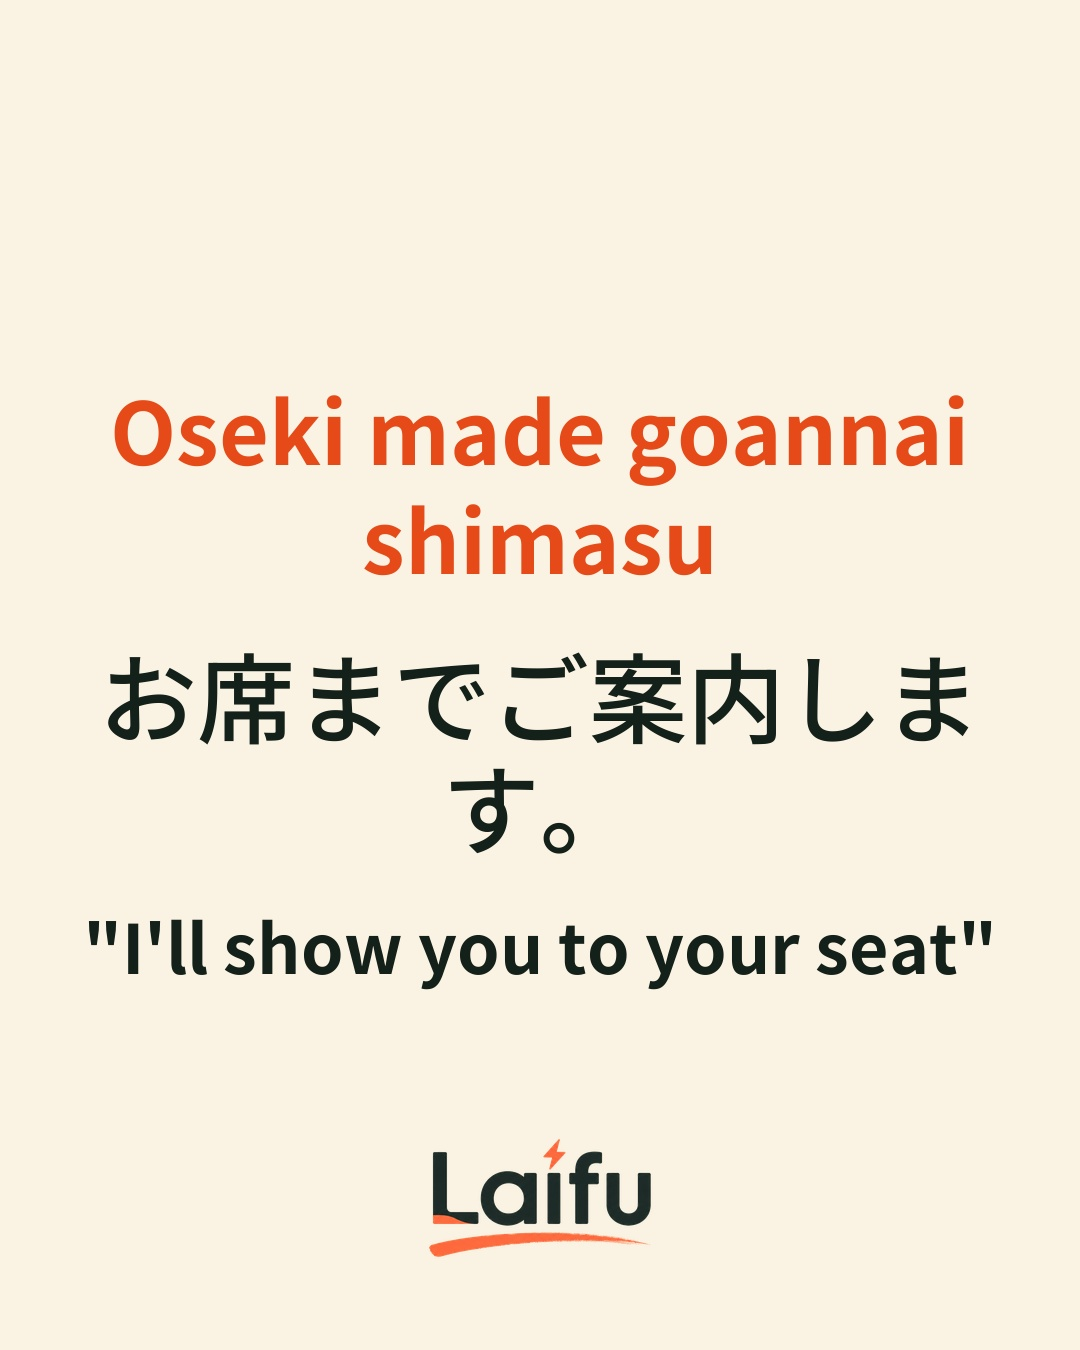
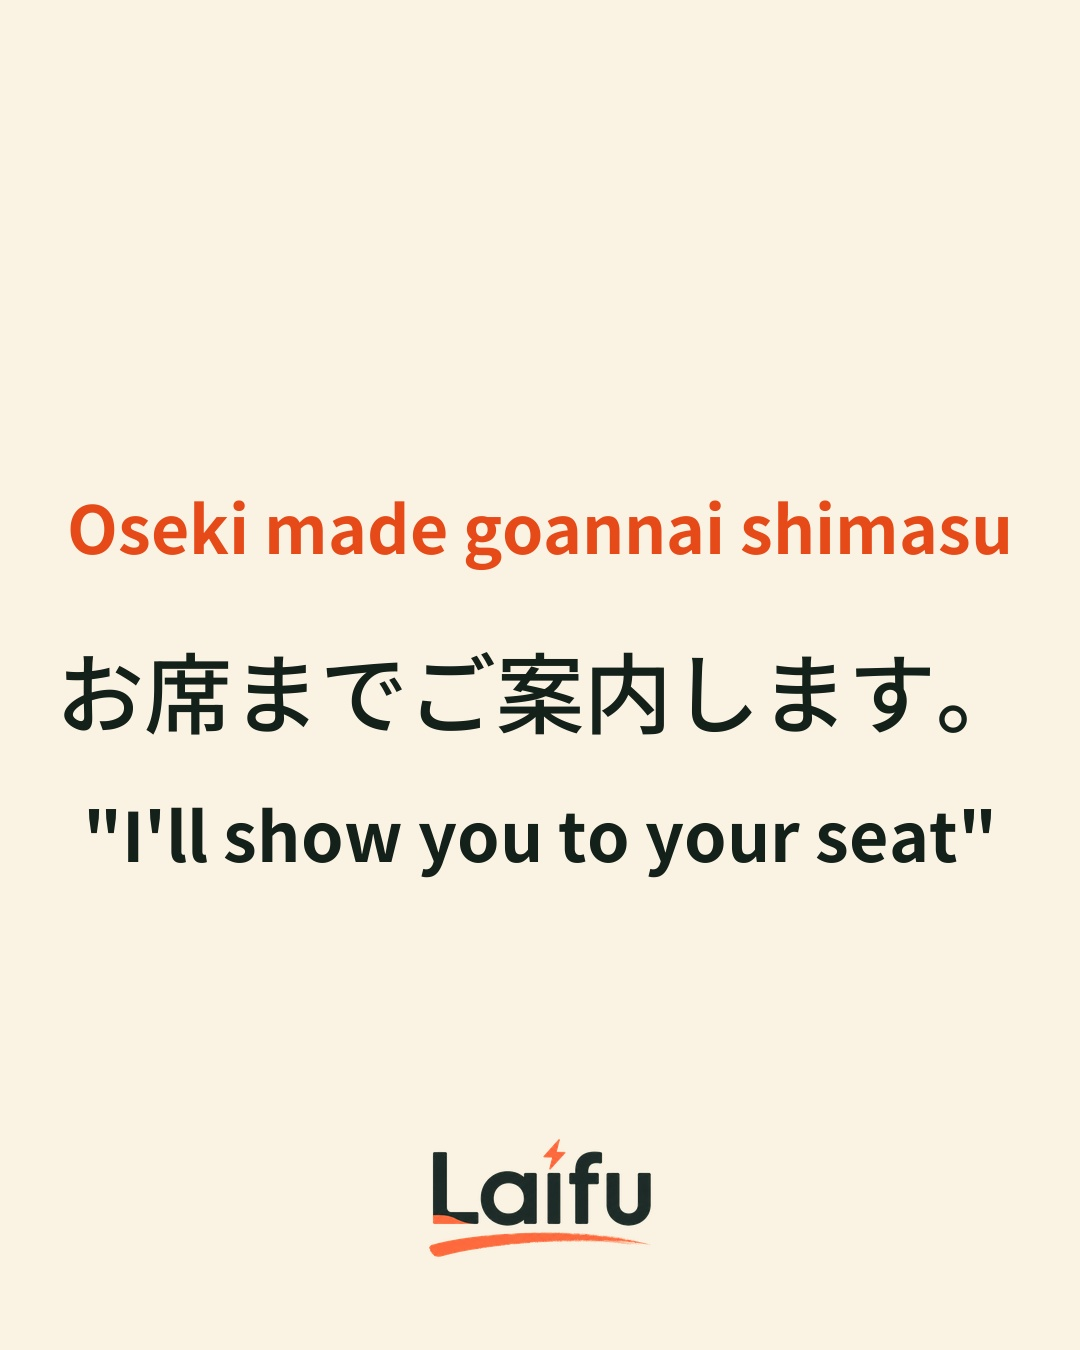
Fix carousel text overflow and swap two unshippable queue posts
The queue through 2026-11-30 was filled in the previous two commits. This
corrects three defects in it.

Text was being drawn into the logo. build_multi_phrase ran its body to
y=1178 while the logo footer starts at y=1136, so the last phrase on a
slide landed on top of the wordmark. The already-queued drugstore
"EVERYDAY" slide had it. Line heights were measured with the ink bbox
while draw.text places the ascender origin, which under-reported each
block by about one bearing per line and hid the overrun.

Lines now shrink before they wrap, so no line strands a single trailing
character ("...くださ / い", "...ます / か？"). 24 posts had roughly 30 of
these; they are gone. When a long phrase forces the Japanese down, the
English gloss is capped below it, so the translation never renders larger
than the thing being taught.

Two queue posts could not ship as scheduled:

  taxfree -> sushi. It carried 一日5万円まで免税です, but the consumables
  cap is 500,000 yen, not 50,000. Japan also moves to airport refunds on
  2026-11-01, which retires the sealed-packaging and in-store exemption
  lines. The underlying phrase rows need their own pass.

  guilty-pleasures -> cafe. The yarisugi category is not in the live
  database; migrations 0080-0081 were never applied, so the post
  advertises content the app does not have.

November shifts one day to even dates so the two-day cadence holds
across the month boundary. Order and ratio are unchanged: 22 posts from
[…]

Changed region(s): [[0.0611, 0.4667, 0.9167, 0.6533], [0.0611, 0.28, 0.9472, 0.4356], [0.0611, 0.6844, 0.9167, 0.7467]]

diff --git a/posts/texture/caption.md b/posts/texture/caption.md
@@ -1,11 +1,42 @@
-"Oishii" is the beginner move 👉
+# Caption. texture (Onomatopoeia / 食感)
 
-Japanese has a whole vocabulary for how food FEELS in your mouth. サクサク for tempura straight out of the oil, モチモチ for fresh mochi, とろとろ for melted cheese. 12 of them, and using the right one is what makes you sound like you actually eat here.
+Post: `posts/texture/` (6 slides, beige cover)
+Source: live DB O-series (migration 0074), 12 of the 20 texture phrases.
 
-We make Laifu, an app for daily (laifu) life. Every phrase has romaji, audio, and a chat example showing you when to use it.
+---
 
-📲 Download Laifu free on the App Store. Link in our bio.
+## Caption (paste this)
 
-Japanese for daily (laifu) life.
+"Oishii" is the beginner move. Everyone says it, nobody remembers it.
 
-#日本語 #learnjapanese #japanesephrases #studyjapanese #nihongo #japanlife #japaneselanguage #onomatopoeia #擬音語 #japanesefood #foodinjapan #japanesevocabulary #japantravel
+Japanese has a whole vocabulary for how food FEELS in your mouth, and people
+here use it constantly. Crispy, chewy, jiggly, melty. There's a word for each
+one, and using the right one is what makes you sound like you actually eat here.
+
+Here are 12 of them 👉
+
+サクサク for tempura straight out of the oil. モチモチ for fresh mochi. とろとろ
+for melted cheese. Say one of these at dinner and watch the table react.
+
+Save this for your next meal in Japan.
+
+Laifu is Japanese for daily (laifu) life. 1,290+ everyday phrases, each one with
+audio and a real conversation showing you when to use it.
+
+📲 Download Laifu free. Link in our bio.
+
+#日本語 #learnjapanese #japanesephrases #japanlife #nihongo #onomatopoeia
+#擬音語 #japanesefood #foodinjapan #japanesevocabulary #studyjapanese
+#japantravel #jlpt #日本語学習
+
+---
+
+## Notes
+
+- Team voice ("we / Laifu"), tagline used once, no "native audio" claim.
+- CTA = App Store download from bio (the Comment-LAIFU mechanic is retired).
+- Phrase count 1,290+ verified against the live DB 2026-08-04 (1,298 rows).
+- Cover reads "Describe the texture", not taste: all 12 words are 食感 (mouthfeel),
+  no flavor words in the set.
+- しっとり (Shittori) was cut from the SOFT & CHEWY slide: the romaji reads badly
+  in English. Replaced with ホクホク. It stays in the app, just not on a carousel.

diff --git a/posts/onsen/caption.md b/posts/onsen/caption.md
@@ -1,11 +1,13 @@
-First onsen? Here's what to say, and what the sign says 👉
+First onsen? Here's the whole run, front desk to hair dryer 👉
 
-Tattoos, lockers, かけ湯 before you get in, and the cold bath question everyone thinks but nobody asks. 12 phrases for your first 温泉 (onsen).
+タトゥーは大丈夫ですか (tatuu wa daijoubu desu ka), 入る前にかけ湯をしてください (hairu mae ni kakeyu wo shite kudasai), ちょうどいい温度ですね (choudo ii ondo desu ne).
 
-We make Laifu, an app for daily (laifu) life. Every phrase carries romaji, audio, and a short chat that shows where it fits.
+The rules feel intimidating from outside and take about a minute to learn. Rinse before you get in, tie long hair up, no photos. That's most of it.
 
-📲 Download Laifu free on the App Store. Link in our bio.
+We make Laifu, an app for daily (laifu) life. Knowing the words is only half of it, so every phrase comes with romaji, audio, and a real conversation.
+
+📲 Laifu is free on the App Store. Link in our bio.
 
 Japanese for daily (laifu) life.
 
-#日本語 #learnjapanese #japanesephrases #studyjapanese #nihongo #japanlife #japaneselanguage #onsen #温泉 #japantravel #japantrip #lifeinjapan #japanesebath
+#日本語 #learnjapanese #japanesephrases #studyjapanese #nihongo #japanlife #japaneselanguage #onsen #温泉 #japantravel #japanculture

diff --git a/posts/trouble/caption.md b/posts/trouble/caption.md
@@ -1,11 +1,13 @@
-Six phrases we hope you never need 👉
+Six phrases you hope you never need 👉
 
-盗まれました, 交番はどこですか, 被害届を出したいです. Japan is safe, and that is exactly why nobody learns these until the day they need them.
+盗まれました (nusumaremashita), 交番はどこですか (kouban wa doko desu ka), 被害届を出したいです (higaitodoke wo dashitai desu).
 
-We make Laifu, an app for daily (laifu) life. Every phrase carries romaji, audio, and a chat example.
+交番 (kouban) is the little police box on street corners, and this is exactly what it's for. Cards get frozen first, then you file the report, and 被害届 is the word that starts it. Worth reading once now instead of at the worst moment.
 
-📲 Download Laifu free on the App Store. Link in our bio.
+Pulled from Laifu, our app for daily (laifu) life ⚡. Phrases come with romaji, clear audio, and a short conversation, so the timing sticks too.
+
+📲 Laifu is free on the App Store. Link in our bio.
 
 Japanese for daily (laifu) life.
 
-#日本語 #learnjapanese #japanesephrases #studyjapanese #nihongo #japanlife #japaneselanguage #japantravel #travelsafety #japantrip #lifeinjapan #livinginjapan
+#日本語 #learnjapanese #japanesephrases #studyjapanese #nihongo #japanlife #japaneselanguage #japantravel #japantips #travelsafety #lifeinjapan

diff --git a/posts/didnt-catch/caption.md b/posts/didnt-catch/caption.md
@@ -1,11 +1,13 @@
-You didn't catch a word of that. Now what? 👉
+You didn't catch it. Now what? 👉
 
-The gap nobody prepares you for is not speaking, it's the moment after someone answers you. 7 phrases that buy you a second try instead of a panicked nod.
+もう一度言ってください (mou ichido itte kudasai), もう少しゆっくり (mou sukoshi yukkuri), 書いてもらえますか (kaite moraemasu ka). 7 ways to ask someone to run that by you again.
 
-We make Laifu, an app for daily (laifu) life. Real phrases with audio and a chat example, because knowing the words is only half of it.
+Nobody expects you to get it first time. The people who improve fastest are just the ones who ask.
 
-📲 Download Laifu free on the App Store. Link in our bio.
+Pulled from Laifu, our app for daily (laifu) life ⚡. Phrases come with romaji, clear audio, and a short conversation, so the timing sticks too.
+
+📲 Laifu is free on the App Store. Link in our bio.
 
 Japanese for daily (laifu) life.
 
-#日本語 #learnjapanese #japanesephrases #studyjapanese #nihongo #japanlife #japaneselanguage #japaneseforbeginners #studyjapanese #japanesepractice #lifeinjapan #livinginjapan
+#日本語 #learnjapanese #japanesephrases #studyjapanese #nihongo #japanlife #japaneselanguage #japanesetips #japaneseforbeginners #speakjapanese

diff --git a/posts/shrine/caption.md b/posts/shrine/caption.md
@@ -1,11 +1,13 @@
-At a shrine and not sure what to do with your hands? 👉
+Standing at a shrine wondering what to do with your hands? 👉
 
-The fountain, the bell, two bows two claps one bow, the fortune you tie up if it's bad. 12 phrases that let you ask instead of copying the person in front of you.
+二礼二拍手一礼 (nirei nihakushu ichirei). Two bows, two claps, one bow. Rinse at the 手水舎 (temizuya) first, hat off, coin in, then the bows.
 
-We make Laifu, an app for daily (laifu) life. Every phrase has romaji, audio, and a real conversation attached.
+Draw an おみくじ (omikuji) after. If it's 凶 (kyou), you tie it to the rack and leave it there. If it's 大吉 (daikichi), you keep it.
 
-📲 Download Laifu free on the App Store. Link in our bio.
+We make Laifu, an app for daily (laifu) life. Knowing the words is only half of it, so every phrase comes with romaji, audio, and a real conversation.
+
+📲 Laifu is free on the App Store. Link in our bio.
 
 Japanese for daily (laifu) life.
 
-#日本語 #learnjapanese #japanesephrases #studyjapanese #nihongo #japanlife #japaneselanguage #shrine #神社 #japantravel #japanculture #omamori #goshuin #lifeinjapan
+#日本語 #learnjapanese #japanesephrases #studyjapanese #nihongo #japanlife #japaneselanguage #shrine #jinja #japanculture #japantravel

diff --git a/posts/day-one-chats/caption.md b/posts/day-one-chats/caption.md
@@ -1,11 +1,13 @@
-Three conversations you'll have on day one in Japan 👉
+Three conversations you'll actually have on day one 👉
 
-Getting seated, asking a stranger to take your photo, admitting it's your first onsen. Not just your line, but what they say back, and how you answer that.
+Getting seated at a restaurant. Asking a stranger to take your photo. Walking into your first onsen.
 
-This is a little taste of Laifu, our app for daily (laifu) life ⚡. Every line has romaji, audio, and the full back-and-forth.
+Not phrases sitting on their own, full exchanges. This is the part textbooks skip: you learn the line, then freeze when the reply isn't the one from the book.
 
-📲 Download Laifu free on the App Store. Link in our bio.
+We make Laifu, an app for daily (laifu) life. Knowing the words is only half of it, so every phrase comes with romaji, audio, and a real conversation.
+
+📲 Laifu is free on the App Store. Link in our bio.
 
 Japanese for daily (laifu) life.
 
-#日本語 #learnjapanese #japanesephrases #studyjapanese #nihongo #japanlife #japaneselanguage #japantravel #japantrip #japaneseforbeginners #firsttimeinjapan #lifeinjapan
+#日本語 #learnjapanese #japanesephrases #studyjapanese #nihongo #japanlife #japaneselanguage #japaneseconversation #japaneseforbeginners #japantravel

diff --git a/posts/ramen-custom/caption.md b/posts/ramen-custom/caption.md
@@ -1,11 +1,13 @@
-Your ramen order has settings. Most people never touch them 👉
+Ordering ramen exactly how you want it 👉
 
-麺固め, 濃いめ, 油少なめ, ネギ抜き. 7 phrases that turn a default bowl into the exact bowl you wanted.
+Most shops let you call the noodle firmness, the broth strength and the oil. 固めで (katame de) for firm noodles, 濃いめ (koime) for a stronger broth, 油少なめ (abura sukuname) to cut the fat back.
 
-Laifu is our app for daily (laifu) life. Romaji, audio, and a chat example on every phrase, so you know when to use it.
+You never have to customize anything. But once you know the words, you stop eating someone else's default.
 
-📲 Download Laifu free on the App Store. Link in our bio.
+Pulled from Laifu, our app for daily (laifu) life ⚡. Phrases come with romaji, clear audio, and a short conversation, so the timing sticks too.
+
+📲 Laifu is free on the App Store. Link in our bio.
 
 Japanese for daily (laifu) life.
 
-#日本語 #learnjapanese #japanesephrases #studyjapanese #nihongo #japanlife #japaneselanguage #ramen #ラーメン #japanfood #japantravel #tokyofood #lifeinjapan
+#日本語 #learnjapanese #japanesephrases #studyjapanese #nihongo #japanlife #japaneselanguage #ramen #ラーメン #japanfood #japanesefood

diff --git a/posts/restaurant-entry/caption.md b/posts/restaurant-entry/caption.md
@@ -1,11 +1,13 @@
-The first 60 seconds in a Japanese restaurant 👉
+The first 60 seconds inside a Japanese restaurant, handled 👉
 
-何名様ですか, 一人です, カウンター席でお願いします. Six lines that carry you from the door to your seat without a single hand gesture.
+何名様ですか (nan-mei sama desu ka) is the first thing you'll hear. Then it's party size, reservation or not, how long the wait is, and where you'd like to sit.
 
-Laifu is our app for daily (laifu) life. Every line has romaji, audio, and the full back-and-forth, so you know what they'll say back.
+Six lines and you're seated. That's the part that trips people up, and it's over in a minute.
 
-📲 Download Laifu free on the App Store. Link in our bio.
+Laifu is our app for daily (laifu) life. Every phrase in it carries romaji, audio you can play, and a short chat that shows where it fits.
+
+📲 Laifu is free on the App Store. Link in our bio.
 
 Japanese for daily (laifu) life.
 
-#日本語 #learnjapanese #japanesephrases #studyjapanese #nihongo #japanlife #japaneselanguage #japanfood #japantravel #japaneserestaurant #tokyofood #lifeinjapan
+#日本語 #learnjapanese #japanesephrases #studyjapanese #nihongo #japanlife #japaneselanguage #japanfood #japanesefood #restaurantjapanese

diff --git a/posts/fitting-room/caption.md b/posts/fitting-room/caption.md
@@ -1,11 +1,13 @@
-Trying clothes on in Japan, without the mime act 👉
+Trying clothes on in Japan, without the guessing 👉
 
-Ask for the fitting room, learn the three-item rule, get a size up, and say whether it fits. 6 phrases for 試着 (shichaku).
+これ、試着できますか (kore, shichaku dekimasu ka), 試着は3点までです (shichaku wa san-ten made desu), ちょうどいいです (choudo ii desu).
 
-Laifu is our app for daily (laifu) life. Romaji, audio, and a chat example on every phrase, so you hear how it actually lands.
+Three items at a time is a normal rule, so don't be thrown when you hear it. And ちょうどいいです is the line you want when it fits.
 
-📲 Download Laifu free on the App Store. Link in our bio.
+Laifu is our app for daily (laifu) life. Every phrase in it carries romaji, audio you can play, and a short chat that shows where it fits.
+
+📲 Laifu is free on the App Store. Link in our bio.
 
 Japanese for daily (laifu) life.
 
-#日本語 #learnjapanese #japanesephrases #studyjapanese #nihongo #japanlife #japaneselanguage #japanshopping #japanfashion #japantravel #lifeinjapan #livinginjapan
+#日本語 #learnjapanese #japanesephrases #studyjapanese #nihongo #japanlife #japaneselanguage #japanshopping #shoppinginjapan #japanfashion

diff --git a/posts/omiyage/caption.md b/posts/omiyage/caption.md
@@ -1,0 +1,13 @@
+Buying おみやげ (omiyage) is its own skill 👉
+
+日持ちしますか (himochi shimasu ka) asks if it keeps. 個包装になってますか (kobousou ni natte masu ka) asks if it's wrapped individually, which is what makes it work for an office.
+
+That second one matters more than it sounds. Omiyage is usually something you hand out one by one.
+
+Laifu is our app for daily (laifu) life. Every phrase in it carries romaji, audio you can play, and a short chat that shows where it fits.
+
+📲 Laifu is free on the App Store. Link in our bio.
+
+Japanese for daily (laifu) life.
+
+#日本語 #learnjapanese #japanesephrases #studyjapanese #nihongo #japanlife #japaneselanguage #omiyage #おみやげ #japantravel #japanshopping

diff --git a/posts/hyakkin/caption.md b/posts/hyakkin/caption.md
@@ -1,0 +1,13 @@
+The 100 yen shop is the best souvenir shop in Japan 👉
+
+全部100円ですか (zenbu hyaku-en desu ka) is worth asking, because not everything is. And the price on the shelf is often 税抜き (zeinuki), before tax.
+
+風呂敷 (furoshiki), お弁当箱 (obentou-bako), 折り紙 (origami). People fly home with suitcases of this stuff.
+
+We make Laifu, an app for daily (laifu) life. Knowing the words is only half of it, so every phrase comes with romaji, audio, and a real conversation.
+
+📲 Laifu is free on the App Store. Link in our bio.
+
+Japanese for daily (laifu) life.
+
+#日本語 #learnjapanese #japanesephrases #studyjapanese #nihongo #japanlife #japaneselanguage #100yenshop #daiso #japanshopping #japantravel

diff --git a/posts/bar/caption.md b/posts/bar/caption.md
@@ -1,0 +1,13 @@
+Your first drink at a Japanese bar 👉
+
+とりあえずビール (toriaezu biiru) is the standard opener. Then お通し (otoushi) arrives, a small dish you didn't order and will be charged for. That's normal, it's the cover.
+
+お通しって何ですか (otoushi tte nan desu ka) is a fair question to ask, and nobody minds you asking.
+
+Pulled from Laifu, our app for daily (laifu) life ⚡. Phrases come with romaji, clear audio, and a short conversation, so the timing sticks too.
+
+📲 Laifu is free on the App Store. Link in our bio.
+
+Japanese for daily (laifu) life.
+
+#日本語 #learnjapanese #japanesephrases #studyjapanese #nihongo #japanlife #japaneselanguage #japanesebar #izakaya #japannightlife #tokyo
